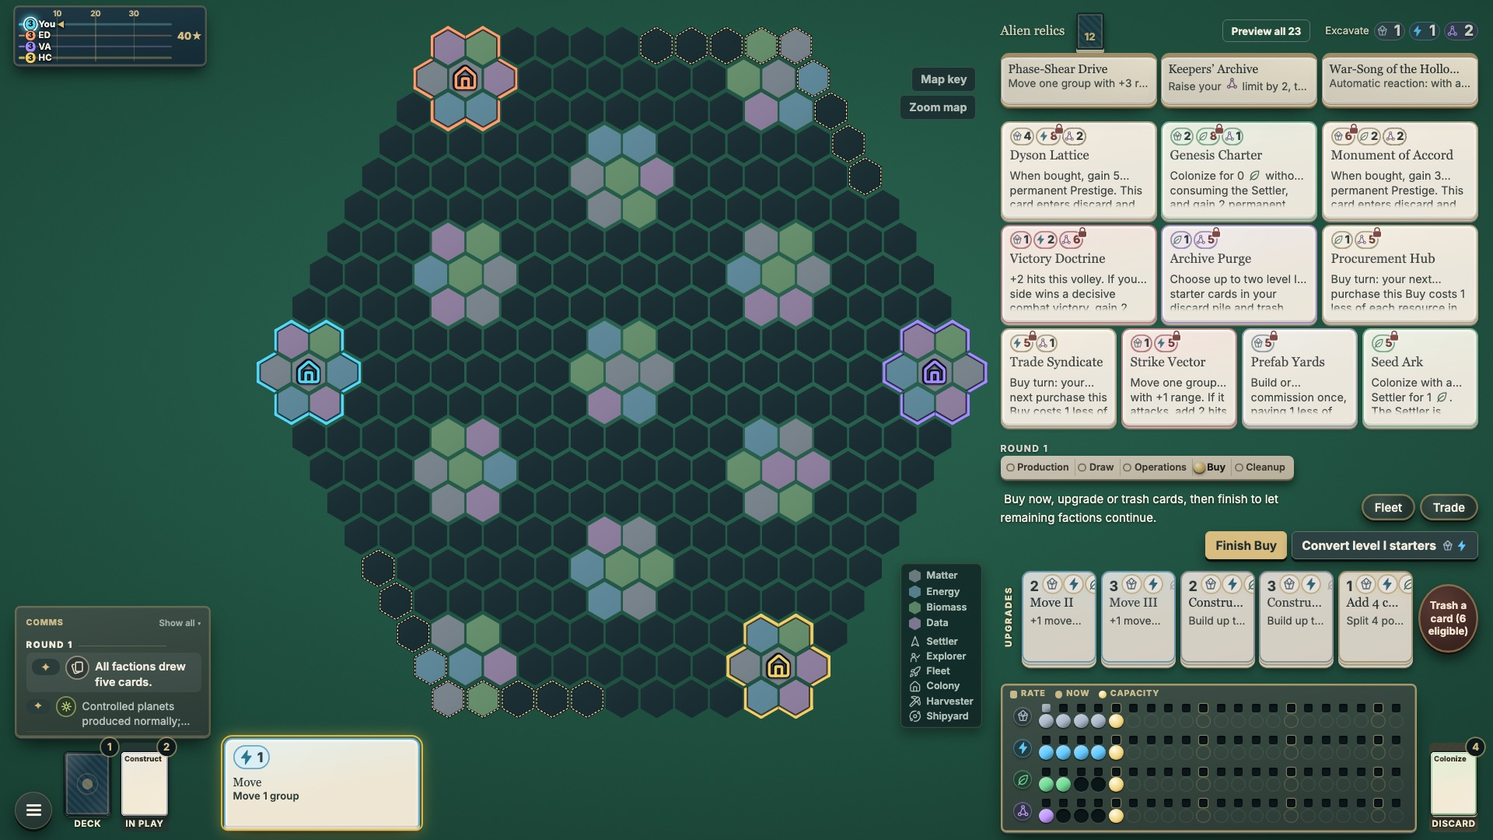
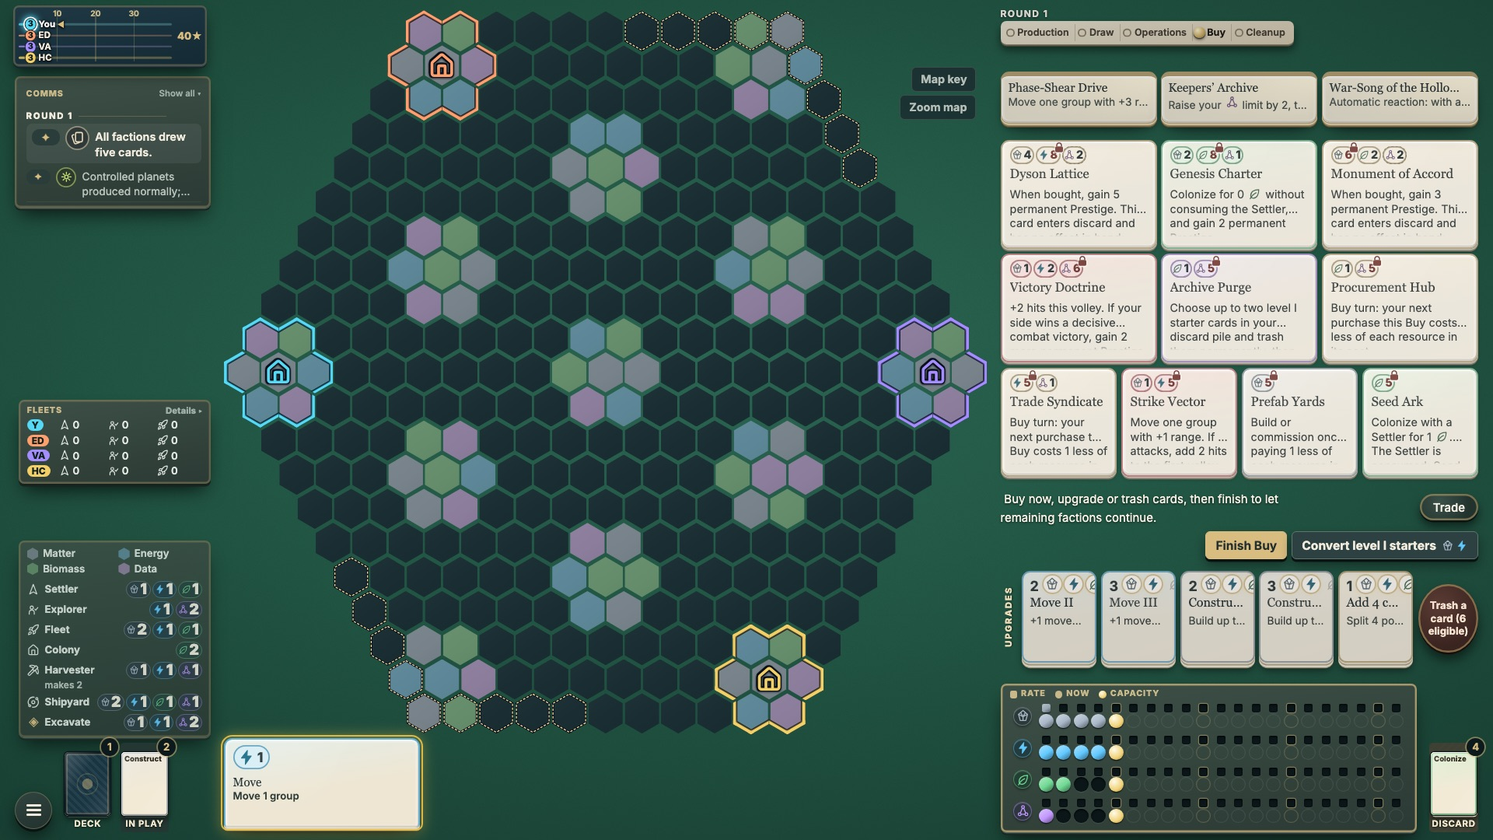
Left column: comms log and fleets at a glance at the top, map key with prices (and Excavate cost) at the bottom; round phases top-right; no Alien relics header (Preview all in the menu); the map fills the middle column; notices lie over the map key

Changed region(s): [[0.0, 0.0, 1.0, 0.8861], [0.0, 0.6417, 0.1562, 0.8861], [0.0, 0.0917, 0.1562, 0.275]]

diff --git a/prototypes/galactic-reach/rulebook.html b/prototypes/galactic-reach/rulebook.html
@@ -123,7 +123,7 @@
 
       <section id="movement">
         <h2>05 / Exploration &amp; movement</h2>
-        <p id="shared-board">Read shared table information around the board: on a desktop window, the whole window is one table, scaled as a whole to fit; the standings are the race to the Prestige goal, a small printed track by the map’s top-left corner with one lane per faction and its marker at its current score (the acting faction’s marker glows, with an arrow; point at or focus a marker for an overview of that faction’s Prestige sources, colonies, cards bought and fleet power, or select it for the breakdown; on a phone the track is the <strong>Table</strong> drawer); the comms feed lies in the bottom-left corner as a small card of the latest three entries, printed like your player mat; select it to open the whole feed, and again (or press Escape) to close it (each entry shows who acted, a symbol for the kind of event and its resource and Prestige amounts; point at an entry for the full sentence); the map itself fills all the space the other pieces leave, reaching into the corners around the track and the comms card, with a short key of the terrain colours and pieces in its bottom-right corner (the <strong>Map key</strong> button has the full descriptions); and to its right lies the supply, all visible together: the face-up alien relics on top, then the market cards in rows by cost - the most expensive row, the medium row and the cheap row; below the supply, by your seat, are the round’s phases, the turn prompt, <strong>Fleet</strong> and <strong>Trade</strong>, then the turn’s buttons, and directly above your player mat the <strong>Upgrades</strong> group: Move II, Move III, Construct II, Construct III and <strong>Add 4 capacity</strong> as cards, each showing its price with an icon for each resource you could pay with, lit when your stock can pay it now (with <strong>Trash a card</strong> beside them during Buy). On your turn your hand glows and gently breathes (a still glow when your device asks for reduced motion). <strong>Fleet</strong> opens over the supply. The game’s title, rules, card gallery, new game, Undo and playtest notes open from the menu button in the bottom-left corner. The market shows its cards with their names and as much of each effect as fits, wrapped; on a wide window the market cards are drawn in real card proportions, three to five to a row, whichever makes them largest (point at one to read it in full; choose it to buy), and cards you can buy now are outlined in gold. <strong>Trade</strong> opens the trade channel in its own window. Card frames take the colour of the resource a card works with (gold for capacity, Buy and Prestige cards, red for military and attack cards); the map key shows them. Select a Prestige marker to inspect its breakdown; the scoring reference is in <a href="#victory">Victory</a>. On a narrow screen, these panels reflow inside the board frame; scroll the map to reach other hexes. The recent-action feed can say that Probe was used, but never gives its private relic location. Your hand, card piles, reserves, and full game-report download stay on your player mat. The report can include private information.</p>
+        <p id="shared-board">Read shared table information around the board: on a desktop window, the whole window is one table, scaled as a whole to fit; the standings are the race to the Prestige goal, a small printed track by the map’s top-left corner with one lane per faction and its marker at its current score (the acting faction’s marker glows, with an arrow; point at or focus a marker for an overview of that faction’s Prestige sources, colonies, cards bought and fleet power, or select it for the breakdown; on a phone the track is the <strong>Table</strong> drawer); the comms feed lies in the top-left corner, under the track, as a small card of the latest three entries, with your fleets at a glance below it (select it for the full fleet manifest), printed like your player mat; select it to open the whole feed, and again (or press Escape) to close it (each entry shows who acted, a symbol for the kind of event and its resource and Prestige amounts; point at an entry for the full sentence); the map itself fills all the space the other pieces leave, reaching into the corners around the track and the comms card, with a key of the terrain colours, each piece’s price and the Excavate cost in the bottom-left corner (the <strong>Map key</strong> button has the full descriptions); and to its right lies the supply, all visible together: the face-up alien relics on top, then the market cards in rows by cost - the most expensive row, the medium row and the cheap row; the round’s phases lie at the top of the supply; below it, by your seat, are the turn prompt, <strong>Fleet</strong> and <strong>Trade</strong>, then the turn’s buttons, and directly above your player mat the <strong>Upgrades</strong> group: Move II, Move III, Construct II, Construct III and <strong>Add 4 capacity</strong> as cards, each showing its price with an icon for each resource you could pay with, lit when your stock can pay it now (with <strong>Trash a card</strong> beside them during Buy). On your turn your hand glows and gently breathes (a still glow when your device asks for reduced motion). <strong>Fleet</strong> opens over the supply. The game’s title, rules, card gallery, new game, Undo and playtest notes open from the menu button in the bottom-left corner. The market shows its cards with their names and as much of each effect as fits, wrapped; on a wide window the market cards are drawn in real card proportions, three to five to a row, whichever makes them largest (point at one to read it in full; choose it to buy), and cards you can buy now are outlined in gold. <strong>Trade</strong> opens the trade channel in its own window. Card frames take the colour of the resource a card works with (gold for capacity, Buy and Prestige cards, red for military and attack cards); the map key shows them. Select a Prestige marker to inspect its breakdown; the scoring reference is in <a href="#victory">Victory</a>. On a narrow screen, these panels reflow inside the board frame; scroll the map to reach other hexes. The recent-action feed can say that Probe was used, but never gives its private relic location. Your hand, card piles, reserves, and full game-report download stay on your player mat. The report can include private information.</p>
         <p id="keyboard-controls">Use <strong>Tab</strong> to reach controls and <strong>Enter</strong> or <strong>Space</strong> to activate them. The first link skips straight to player controls. Use arrow keys, Home, or End to switch the player-control tabs. Escape closes inspectors and reference windows. Combat and excess-resource choices stay open until you make the required choice.</p>
         <div class="book-legend" role="group" aria-label="Map symbols"><span><b class="relic-mark" aria-hidden="true">◈</b> Located relic</span><span><b class="relic-mark" aria-hidden="true">●</b> Gray moon · no production</span></div>
         <p>World terrain is always public, but seeing a world does not locate its relic. Any Settler, Fleet, or Explorer ending a move surveys that world or moon, revealing its terrain to everyone. Arrival never locates a relic. Use <strong>Probe</strong> from your Explorer’s current hex to locate the nearest remaining relic you have not already discovered, even on an unvisited world or hidden moon. Known sites are skipped. When you locate the last unknown site, a message tells you that all remaining relics are discovered. If all remaining sites are already known to you, Probe warns you without spending the card or your action. You do not need to reach that world or moon first. A signal on an undiscovered moon reveals the relic’s hex to you without revealing the moon’s terrain. Other players must locate it for themselves. Existing discovery relic cards keep their printed effects. Probe and Chorus signals stay private after later terrain surveys. Only an effect that explicitly reveals relics to everyone makes them public. All players’ units remain visible, including in empty space. Unit markers alone do not reveal a hidden moon or relic.</p>

diff --git a/prototypes/galactic-reach/styles.css b/prototypes/galactic-reach/styles.css
@@ -2513,28 +2513,35 @@ html { -webkit-text-size-adjust: 100%; text-size-adjust: 100%; }
   @container (min-height: 142px) { #market-panel #market-row .game-card:not(:hover):not(:focus):not(:focus-within) .card-effect { -webkit-line-clamp: 5 !important; line-clamp: 5 !important; } }
 }
 
-/* ==== A short map key in the map's empty bottom-right corner: the four terrain colours and the
-   six pieces with one-word names. The Map key button keeps the full descriptions. ==== */
+/* ==== The map key in the left column: the four terrain colours, then each piece with its price
+   (and the Harvester's yield), and the Excavate cost. The Map key button keeps the full
+   descriptions. ==== */
 .map-legend-corner { display: none; }
 @media (min-width: 600px) and (min-height: 600px) {
   .map-legend-corner {
-    display: grid; grid-template-columns: auto; gap: 3px; z-index: 4; align-self: end; justify-self: end; margin: 0 6px 10px 0; padding: 7px 9px 6px;
-    border-radius: 6px; background: #0d1b1fcc; box-shadow: inset 0 0 0 1px #c2a76b44, 0 6px 12px #0006; color: #c9d3cc; font-size: 10.5px; font-weight: 600; line-height: 1.15; pointer-events: none;
+    display: grid; grid-template-columns: minmax(0, 1fr); gap: 4px; z-index: 4; align-self: end; margin: 0; padding: 8px 9px 7px;
+    border-radius: 6px; background: linear-gradient(170deg, #3d5047, #2b3a34); box-shadow: inset 0 0 0 2px #c2a76b55, 0 1px 0 #55675f, 0 2px 0 #24312c, 0 3px 0 #18221f, 0 12px 20px -6px #000b;
+    color: #dfe6e0; font-size: 11px; font-weight: 600; line-height: 1.15; pointer-events: none;
   }
-  .map-legend-corner > span { display: flex; align-items: center; gap: 6px; white-space: nowrap; }
-  .map-legend-corner .legend-res i { flex: none; width: 13px; height: 14px; clip-path: polygon(50% 0, 100% 25%, 100% 75%, 50% 100%, 0 75%, 0 25%); }
+  .map-legend-corner .legend-terrain { display: grid; grid-template-columns: 1fr 1fr; gap: 3px 8px; margin-bottom: 3px; }
+  .map-legend-corner .legend-res { display: flex; align-items: center; gap: 5px; white-space: nowrap; }
+  .map-legend-corner .legend-res i { flex: none; width: 12px; height: 13px; clip-path: polygon(50% 0, 100% 25%, 100% 75%, 50% 100%, 0 75%, 0 25%); }
   .map-legend-corner .legend-res.matter i { background: #77828a; }
   .map-legend-corner .legend-res.energy i { background: #5d8798; }
   .map-legend-corner .legend-res.biomass i { background: #658d6b; }
   .map-legend-corner .legend-res.data i { background: #8d7d9d; }
-  .map-legend-corner .legend-res.data { margin-bottom: 3px; }
+  .map-legend-corner .legend-piece { display: grid; grid-template-columns: 14px auto 1fr; align-items: center; column-gap: 5px; row-gap: 1px; white-space: nowrap; }
+  .map-legend-corner .legend-piece b { font-weight: 700; }
+  .map-legend-corner .legend-piece .resource-dots { justify-self: end; display: inline-flex; flex-wrap: wrap; justify-content: flex-end; gap: 2px; }
+  .map-legend-corner .legend-piece em { grid-column: 2 / -1; font-style: normal; font-size: 10px; color: #b7c2bb; }
+  .map-legend-corner .resource-chip { min-height: 16px; padding: 0 3px 0 2px; gap: 1px; font-size: 10.5px; box-shadow: none; }
+  .map-legend-corner .resource-symbol { width: 11px; height: 11px; }
   .map-legend-corner .board-glyph { flex: none; width: 13px; height: 13px; fill: none; stroke: currentColor; stroke-width: 2; }
+  .map-legend-corner .legend-icon { font-size: 12px; text-align: center; color: var(--gold); }
 }
-@media (min-width: 600px) and (min-height: 600px) and (orientation: landscape) {
-  .map-legend-corner { grid-column: 1 / 3 !important; grid-row: 1 / 9 !important; }
-}
+/* Upright: in the map's bottom-right corner. */
 @media (min-width: 600px) and (min-height: 600px) and (orientation: portrait) {
-  .map-legend-corner { grid-column: 1 / -1 !important; grid-row: 3 !important; }
+  .map-legend-corner { grid-column: 1 / -1 !important; grid-row: 3 !important; align-self: end; justify-self: end; width: 190px; }
 }
 
 /* ==== A hierarchy of contrast: your hand, the market, your mat and the map read first, crisp and
@@ -2676,4 +2683,38 @@ html { -webkit-text-size-adjust: 100%; text-size-adjust: 100%; }
 @media (min-width: 600px) and (min-height: 600px) and (orientation: portrait) {
   #hand-panel .hand-tools { grid-column: 2 !important; grid-row: 7 !important; align-self: end !important; justify-self: stretch !important; flex-wrap: wrap; justify-content: flex-start; gap: 6px; margin: 0 0 6px !important; }
   .console-nav { align-self: center !important; margin: 0 !important; }
+}
+
+/* ==== Landscape: the left column holds the Prestige track, the comms log and the fleets at a
+   glance at the top, and the map key at the bottom; the map fills the middle column; the round's
+   phases lie at the top of the supply, over the relics and the market. The Alien relics header
+   row is gone (Preview all is in the menu; the Excavate cost in the map key). ==== */
+.fleet-glance { display: none; }
+@media (min-width: 600px) and (min-height: 600px) and (orientation: landscape) {
+  .board-map-region { grid-column: 2 !important; place-items: center !important; }
+  .map-tools { grid-column: 2 !important; }
+  .log-panel:not(.open) { align-self: start !important; }
+  .map-legend-corner { grid-column: 1 !important; grid-row: 1 / 9 !important; justify-self: stretch; align-self: end !important; margin: 0 0 0 4px !important; }
+  .fleet-glance {
+    grid-column: 1; grid-row: 1 / 9; align-self: end; z-index: 4; display: grid; gap: 3px; margin: 0 0 calc(var(--legend-h, 262px) + 10px) 4px; padding: 6px 9px 7px;
+    border-radius: 6px; background: linear-gradient(170deg, #3d5047, #2b3a34); box-shadow: inset 0 0 0 2px #c2a76b55, 0 3px 0 #18221f, 0 12px 20px -6px #000b; color: #dfe6e0; font-size: 11px; font-weight: 600;
+  }
+  .fleet-glance-head { display: flex; justify-content: space-between; align-items: center; padding: 0; border: 0; background: none; color: #c9b98a; font: inherit; font-size: 9px; font-weight: 800; letter-spacing: .08em; text-transform: uppercase; cursor: pointer; }
+  .fleet-glance-head small { color: #9fb0a8; font-size: 9.5px; letter-spacing: 0; text-transform: none; }
+  .fleet-glance-head:focus-visible { outline: 2px solid var(--cyan); outline-offset: 1px; border-radius: 4px; }
+  .fleet-glance-row { display: grid; grid-template-columns: 30px repeat(3, 1fr); align-items: center; gap: 4px; }
+  .fleet-glance-row b { justify-self: start; padding: 0 5px; border-radius: 8px; background: var(--player); color: #10201c; font-size: 10px; font-weight: 800; }
+  .fleet-glance-row span { display: inline-flex; align-items: center; gap: 3px; }
+  .fleet-glance-row .board-glyph { width: 12px; height: 12px; fill: none; stroke: currentColor; stroke-width: 2; }
+  #fleet-tab { display: none !important; }
+  #relics-panel > .section-intro:not(:has(#cancel-excavate:not([hidden]))), #relics-panel .relic-payment, #relic-row-help { display: none !important; }
+  /* The round's phases on top of the supply. */
+  .app-shell, .has-saved-table .app-shell, .has-replay .app-shell { grid-template-rows: auto auto minmax(0, 1fr) auto auto auto auto auto var(--front-h) !important; }
+  .phase-stepper { grid-row: 1 !important; align-self: start !important; margin: 0 0 6px !important; }
+  #relics-panel, #relics-panel[hidden], #relics-panel.tab-panel { grid-row: 2 !important; }
+  .tab-panel { grid-row: 3 !important; }
+  #relics-panel.tab-panel { grid-row: 2 !important; }
+  #fleet-panel.active { grid-row: 2 / 4 !important; }
+  /* Notices lie over the map key at the bottom of the left column (it has no controls). */
+  .toast { top: auto !important; bottom: calc((var(--front-h-fixed, 96px) + 22px) * var(--table-zoom, 1)) !important; left: calc(20px * var(--table-zoom, 1)) !important; }
 }

diff --git a/prototypes/galactic-reach/app.js b/prototypes/galactic-reach/app.js
@@ -3521,10 +3521,13 @@ function createGalacticReach(options = {}) {
       ['settler','Settler'],['explorer','Explorer'],['fleet','Fleet'],
       ['colony','Colony'],['harvester','Harvester'],['starbase','Shipyard']
     ];
-    // A short key in the map's empty corner, so the board teaches itself without opening the
-    // Map key (which keeps the full descriptions).
+    // A short key beside the map, with each piece's price and the Excavate cost, so the board
+    // teaches itself without opening the Map key (which keeps the full descriptions).
     const corner = $('#map-legend-corner');
-    if (corner) corner.innerHTML = RESOURCES.map(resource => `<span class="legend-res ${resource}"><i></i>${RESOURCE_NAMES[resource]}</span>`).join('') + entries.map(([type,label]) => `<span class="legend-piece">${BOARD_ICONS[type]}${label}</span>`).join('');
+    const pieceCost = type => type === 'colony' ? { biomass: 2 } : SHIP_STATS[type]?.cost || STRUCTURES[type]?.cost;
+    if (corner) corner.innerHTML = `<span class="legend-terrain">${RESOURCES.map(resource => `<span class="legend-res ${resource}"><i></i>${RESOURCE_NAMES[resource]}</span>`).join('')}</span>`
+      + entries.map(([type,label]) => `<span class="legend-piece">${BOARD_ICONS[type]}<b>${label}</b>${resourceDots(pieceCost(type))}${type === 'harvester' ? `<em>makes ${HARVESTER_YIELD}</em>` : ''}</span>`).join('')
+      + `<span class="legend-piece legend-excavate"><span class="legend-icon">◈</span><b>Excavate</b>${resourceDots(EXCAVATION_COST)}</span>`;
     $('#symbol-legend').innerHTML = `<strong class="legend-heading">Units &amp; buildings</strong>${entries.map(([type,label]) => {
       const cost = type === 'colony' ? { biomass: 2 } : SHIP_STATS[type]?.cost || STRUCTURES[type]?.cost;
       return `<span class="tooltip-anchor symbol-legend-item" role="group" tabindex="0" data-tooltip="${LEGEND_TOOLTIPS[type]}" aria-label="${label}. ${LEGEND_TOOLTIPS[type]}"><span class="symbol-legend-name">${BOARD_ICONS[type]}${label}</span><span class="symbol-legend-cost">${resourceDots(cost)}</span><span class="symbol-legend-description">${LEGEND_TOOLTIPS[type]}</span></span>`;
@@ -4173,6 +4176,13 @@ function createGalacticReach(options = {}) {
     }));
   }
   function renderFleetSummary() {
+    const glance=$('#fleet-glance');
+    if (glance) glance.innerHTML=`<button type="button" class="fleet-glance-head" data-open-fleet aria-label="Fleets: open the full fleet manifest and your tactics">Fleets <small>Details ▸</small></button>`+state.players.map((player,id)=>{
+      const totals={settler:0,explorer:0,fleet:0};
+      Object.values(state.fleets).forEach(group=>Object.keys(totals).forEach(type=>{totals[type]+=group[id]?.[type]||0;}));
+      return `<span class="fleet-glance-row" style="--player:${player.color}"><b>${esc(player.name.split(/\s+/).filter(Boolean).map(word=>word[0]).join('').slice(0,3).toUpperCase())}</b><span>${BOARD_ICONS.settler}${totals.settler}</span><span>${BOARD_ICONS.explorer}${totals.explorer}</span><span>${BOARD_ICONS.fleet}${totals.fleet}</span></span>`;
+    }).join('');
+    $('[data-open-fleet]')?.addEventListener('click',()=>switchTab('fleet'));
     $('#fleet-summary').innerHTML=state.players.map((player,id)=>{
       const totals={settler:0,explorer:0,fleet:0};
       Object.values(state.fleets).forEach(group=>Object.keys(totals).forEach(type=>{totals[type]+=group[id]?.[type]||0;}));
@@ -4719,12 +4729,11 @@ function createGalacticReach(options = {}) {
     const ratio = b.height / b.width, gap = 6 * zoom;
     const rect = (element, [l, t, r, bottom] = [0, 0, 0, 0]) => { const e = element?.getBoundingClientRect?.(); return e && e.width ? [e.left - l * zoom, e.top - t * zoom, e.right + r * zoom, e.bottom + bottom * zoom] : null; };
     const track = rect($('#prestige-track'), [6, 4, 38, 5]);
-    // The notice spot under the track (see .toast), kept clear so a notice never lies on a hex.
-    const notice = track && [16 * zoom, track[3] + 8 * zoom, (16 + 196) * zoom, track[3] + 170 * zoom];
+
     // An open comms log lies over the map on purpose; the map keeps clear of the closed card.
     if (!$('.log-panel.open')) fitMapLog = rect($('.log-panel'));
     const log = fitMapLog;
-    const blocks = [track, notice, log, rect($('.map-tools')), rect($('#map-legend-corner'))].filter(Boolean);
+    const blocks = [track, log, rect($('.map-tools')), rect($('#map-legend-corner'))].filter(Boolean);
     const fits = width => {
       const height = width * ratio, left = box.right - width, top = box.top + (box.height - height) / 2;
       return hexes.every(([l, t, r, bottom]) => blocks.every(([bl, bt, br, bb]) => left + r * width <= bl - gap || left + l * width >= br + gap || top + bottom * width <= bt - gap || top + t * width >= bb + gap));

diff --git a/prototypes/galactic-reach/index.html b/prototypes/galactic-reach/index.html
@@ -34,6 +34,7 @@
         <a class="button button-ghost" href="/" style="text-decoration:none">Game library</a>
         <button class="button button-ghost" id="undo-turn-button" type="button" disabled title="Available after you complete a turn">Undo turn</button>
         <button class="button button-ghost" id="rules-button" type="button">Rules</button>
+        <button class="button button-ghost" id="open-relic-catalog" type="button" aria-label="Preview all 23 alien relics">Alien relics</button>
         <a class="button button-ghost" id="card-gallery-link" href="cards.html" target="_blank" rel="noopener" style="text-decoration:none">Card gallery</a>
         <button class="button button-ghost" id="new-game-button" type="button">New game</button>
       </div>
@@ -113,6 +114,7 @@
           <button type="button" class="log-toggle" id="log-toggle" aria-expanded="false" aria-controls="game-log"><span>Comms</span><small>Show all</small></button>
           <ol id="game-log" tabindex="0" aria-label="Comms feed" class="game-log" aria-live="polite"></ol>
         </section>
+        <section class="fleet-glance" id="fleet-glance" aria-label="Fleets at a glance"></section>
         </div>
       </aside>
             <nav class="phase-stepper" id="phase-stepper" aria-label="Round phases"><strong id="stepper-round">Round 1</strong><ol id="phase-stepper-steps"></ol></nav>
@@ -209,7 +211,6 @@
           </div>
           <div class="tab-panel" id="relics-panel" data-panel="relics" role="tabpanel" aria-labelledby="relics-tab" tabindex="0" hidden>
             <div class="section-intro"><div><h2 id="relic-row-title">Alien relics</h2><p id="relic-deck-count"></p></div><button class="button" id="cancel-excavate" type="button" hidden>Cancel Excavate</button></div>
-            <button class="button button-ghost" id="open-relic-catalog" type="button" aria-label="Preview all 23 alien relics">Preview all 23</button>
             <p class="muted" id="relic-row-help">Browse rewards here. Use Excavate with your Explorer at a relic to choose one.</p>
             <p class="relic-payment">Excavation cost <span id="relic-cost"></span></p>
             <div class="relic-row" id="relic-row"></div>

diff --git a/changes/gr-ui-followup.md b/changes/gr-ui-followup.md
@@ -3,4 +3,4 @@ compat: safe
 title: The turn lies with your seat
 pr: 74
 ---
-The round's phases, the turn prompt and Fleet/Trade now sit at the bottom of the supply, next to your hand and the turn's buttons, and the supply starts at the top. On your turn your hand glows and gently breathes instead of a "Your turn" banner ([Shared board](rulebook.html#shared-board)). Market cards show their whole name and as much of their effect as fits, so they read without pointing at them; on wide windows market cards are real card shapes, as large as the space allows. A short key of the terrain colours and pieces lies in the map's empty corner. Your hand, the market, your mat and the map read first; the relics, upgrades, phases and comms sit back until you point at them. The mat no longer offers a Discard: resources above a limit are still discarded automatically ([Resources](rulebook.html#resources)). An Upgrades row directly above your mat holds Move II, Move III, Construct II, Construct III and Add 4 capacity as cards, each lighting the resources you can pay with now. The supply lies in rows: the relics on top, then the market from its most expensive cards down to its cheapest. Your hand is a fanned hand held low, each card showing a narrow strip with its name; point at a card to lift it whole. The market fills the supply's full width.
+The round's phases, the turn prompt and Fleet/Trade now sit at the bottom of the supply, next to your hand and the turn's buttons, and the supply starts at the top. On your turn your hand glows and gently breathes instead of a "Your turn" banner ([Shared board](rulebook.html#shared-board)). Market cards show their whole name and as much of their effect as fits, so they read without pointing at them; on wide windows market cards are real card shapes, as large as the space allows. A short key of the terrain colours and pieces lies in the map's empty corner. Your hand, the market, your mat and the map read first; the relics, upgrades, phases and comms sit back until you point at them. The mat no longer offers a Discard: resources above a limit are still discarded automatically ([Resources](rulebook.html#resources)). An Upgrades row directly above your mat holds Move II, Move III, Construct II, Construct III and Add 4 capacity as cards, each lighting the resources you can pay with now. The supply lies in rows: the relics on top, then the market from its most expensive cards down to its cheapest. Your hand is a fanned hand held low, each card showing a narrow strip with its name; point at a card to lift it whole. The market fills the supply's full width. The comms log and your fleets at a glance sit at the top-left, the map key with each piece's price at the bottom-left, and the round's phases at the top-right; Preview all relics is in the menu.
